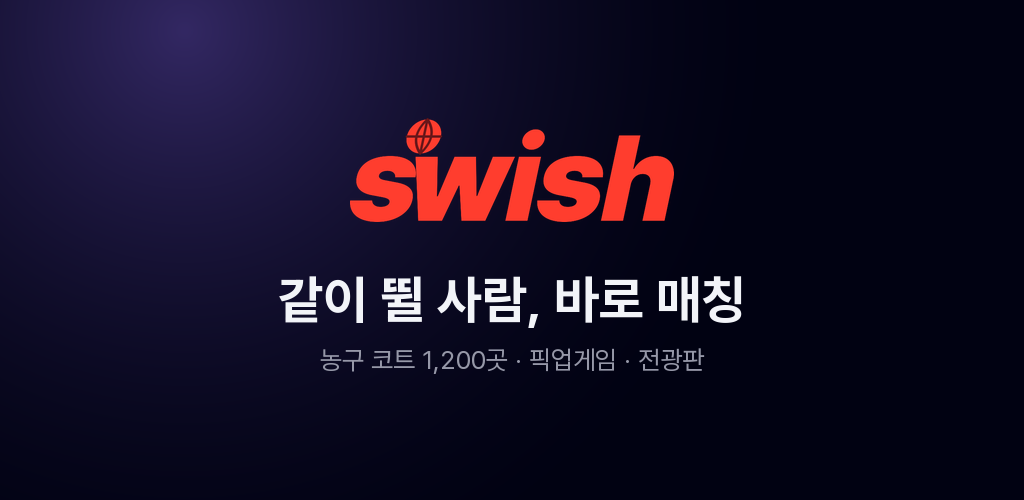
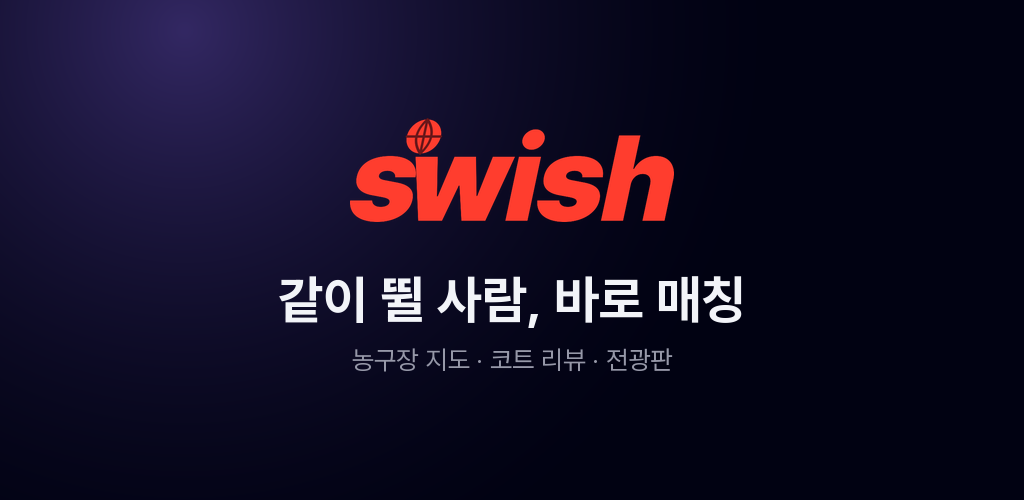
copy(web): 전국 코트 수 숫자 빼기 (랜딩·코트 목록·공유 이미지) (#19)
등록 코트 수와 앱 지도에 보이는 코트 수가 달라, 웹의 전국 숫자가 앱에서
확인되지 않는 약속이 되던 문제를 정리한다.

- 랜딩: 통계 칸 1,152 -> '전국 / 농구장 지도와 리뷰', 티커 2곳, 코트맵 본문
- 코트 목록(/courts/): 제목·설명·og의 1,144곳과 부제 숫자 제거
- assets/og.png: 부제 '농구 코트 1,200곳' -> '농구장 지도 · 코트 리뷰 · 전광판'
  (코트 페이지 1,234개가 공유 이미지로 쓰는 파일)
- 시군구별 'N곳'은 페이지에 실제로 나열된 코트 수와 89곳 모두 일치해 유지

Changed region(s): [[0.3125, 0.69, 0.6875, 0.75]]

diff --git a/courts/index.html b/courts/index.html
@@ -2,11 +2,11 @@
 <meta charset="utf-8"><meta name="viewport" content="width=device-width, initial-scale=1">
 <script async src="https://www.googletagmanager.com/gtag/js?id=G-3G08XKHERX"></script>
 <script>window.dataLayer=window.dataLayer||[];function gtag(){dataLayer.push(arguments);}gtag('js',new Date());gtag('config','G-3G08XKHERX',{allow_google_signals:false,allow_ad_personalization_signals:false});</script>
-<title>전국 야외 농구장 지도 — 1,144곳 | swish</title>
-<meta name="description" content="전국 야외 농구 코트 1,144곳의 위치·시설 정보. 시군구별로 찾아보고 swish 앱 지도에서 한눈에 확인하세요.">
+<title>전국 야외 농구장 지도 | swish</title>
+<meta name="description" content="전국 야외 농구 코트의 위치·시설 정보. 시군구별로 찾아보고 swish 앱 지도에서 한눈에 확인하세요.">
 <link rel="canonical" href="https://swish.co.kr/courts/">
 <meta property="og:type" content="website"><meta property="og:site_name" content="swish">
-<meta property="og:title" content="전국 야외 농구장 지도 — 1,144곳 | swish"><meta property="og:description" content="전국 야외 농구 코트 1,144곳의 위치·시설 정보. 시군구별로 찾아보고 swish 앱 지도에서 한눈에 확인하세요.">
+<meta property="og:title" content="전국 야외 농구장 지도 | swish"><meta property="og:description" content="전국 야외 농구 코트의 위치·시설 정보. 시군구별로 찾아보고 swish 앱 지도에서 한눈에 확인하세요.">
 <meta property="og:image" content="https://swish.co.kr/assets/og.png"><meta property="og:url" content="https://swish.co.kr/courts/">
 <link rel="icon" href="https://swish.co.kr/assets/favicon.png">
 <link rel="stylesheet" href="https://cdn.jsdelivr.net/gh/orioncactus/pretendard@v1.3.9/dist/web/variable/pretendardvariable-dynamic-subset.min.css">
@@ -14,7 +14,7 @@
 </head><body><div class="wrap">
 <a class="mark" href="/">swish</a>
 <h1>전국 야외 농구장</h1>
-<p class="sub">1,144곳. 시군구를 고르면 코트별 위치·시설 정보를 볼 수 있어요.</p>
+<p class="sub">시군구를 고르면 코트별 위치·시설 정보를 볼 수 있어요.</p>
 <a class="cta primary" href="https://apps.apple.com/kr/app/id6767571900?pt=128870676&ct=web_court_region&mt=8">앱 지도에서 한눈에 보기 (App Store)</a>
 <a class="cta primary" href="https://play.google.com/store/apps/details?id=kr.swish.app&referrer=utm_source%3Dswish_web%26utm_medium%3Dcourt_page%26utm_campaign%3Dweb_court_region">앱 지도에서 한눈에 보기 (Google Play)</a>
 <h2>강원특별자치도</h2><div class='grid'><a class="item" href="/courts/강원특별자치도-철원군/"><b>철원군</b><span>1곳</span></a><a class="item" href="/courts/강원특별자치도-홍천군/"><b>홍천군</b><span>1곳</span></a><a class="item" href="/courts/강원특별자치도-화천군/"><b>화천군</b><span>4곳</span></a></div><h2>경기도</h2><div class='grid'><a class="item" href="/courts/경기도-가평군/"><b>가평군</b><span>6곳</span></a><a class="item" href="/courts/경기도-고양시-덕양구/"><b>고양시 덕양구</b><span>46곳</span></a><a class="item" href="/courts/경기도-고양시-일산동구/"><b>고양시 일산동구</b><span>19곳</span></a><a class="item" href="/courts/경기도-고양시-일산서구/"><b>고양시 일산서구</b><span>18곳</span></a><a class="item" href="/courts/경기도-과천시/"><b>과천시</b><span>6곳</span></a><a class="item" href="/courts/경기도-광명시/"><b>광명시</b><span>14곳</span></a><a class="item" href="/courts/경기도-광주시/"><b>광주시</b><span>9곳</span></a><a class="item" href="/courts/경기도-구리시/"><b>구리시</b><span>10곳</span></a><a class="item" href="/courts/경기도-군포시/"><b>군포시</b><span>11곳</span></a><a class="item" href="/courts/경기도-김포시/"><b>김포시</b><span>32곳</span></a><a class="item" href="/courts/경기도-남양주시/"><b>남양주시</b><span>42곳</span></a><a class="item" href="/courts/경기도-동두천시/"><b>동두천시</b><span>3곳</span></a><a class="item" href="/courts/경기도-부천시-소사구/"><b>부천시 소사구</b><span>2곳</span></a><a class="item" href="/courts/경기도-부천시-오정구/"><b>부천시 오정구</b><span>7곳</span></a><a class="item" href="/courts/경기도-부천시-원미구/"><b>부천시 원미구</b><span>14곳</span></a><a class="item" href="/courts/경기도-성남시-분당구/"><b>성남시 분당구</b><span>25곳</span></a><a class="item" href="/courts/경기도-성남시-수정구/"><b>성남시 수정구</b><span>10곳</span></a><a class="item" href="/courts/경기도-성남시-중원구/"><b>성남시 중원구</b><span>8곳</span></a><a class="item" href="/courts/경기도-수원시-권선구/"><b>수원시 권선구</b><span>8곳</span></a><a class="item" href="/courts/경기도-수원시-영통구/"><b>수원시 영통구</b><span>19곳</span></a><a class="item" href="/courts/경기도-수원시-장안구/"><b>수원시 장안구</b><span>9곳</span></a><a class="item" href="/courts/경기도-수원시-팔달구/"><b>수원시 팔달구</b><span>6곳</span></a><a class="item" href="/courts/경기도-시흥시/"><b>시흥시</b><span>17곳</span></a><a class="item" href="/courts/경기도-안산시-단원구/"><b>안산시 단원구</b><span>25곳</span></a><a class="item" href="/courts/경기도-안산시-상록구/"><b>안산시 상록구</b><span>12곳</span></a><a class="item" href="/courts/경기도-안양시-동안구/"><b>안양시 동안구</b><span>9곳</span></a><a class="item" href="/courts/경기도-안양시-만안구/"><b>안양시 만안구</b><span>8곳</span></a><a class="item" href="/courts/경기도-양주시/"><b>양주시</b><span>28곳</span></a><a class="item" href="/courts/경기도-양평군/"><b>양평군</b><span>9곳</span></a><a class="item" href="/courts/경기도-여주시/"><b>여주시</b><span>3곳</span></a><a class="item" href="/courts/경기도-연천군/"><b>연천군</b><span>3곳</span></a><a class="item" href="/courts/경기도-오산시/"><b>오산시</b><span>14곳</span></a><a class="item" href="/courts/경기도-용인시-기흥구/"><b>용인시 기흥구</b><span>35곳</span></a><a class="item" href="/courts/경기도-용인시-수지구/"><b>용인시 수지구</b><span>24곳</span></a><a class="item" href="/courts/경기도-용인시-처인구/"><b>용인시 처인구</b><span>20곳</span></a><a class="item" href="/courts/경기도-의왕시/"><b>의왕시</b><span>8곳</span></a><a class="item" href="/courts/경기도-의정부시/"><b>의정부시</b><span>31곳</span></a><a class="item" href="/courts/경기도-이천시/"><b>이천시</b><span>1곳</span></a><a class="item" href="/courts/경기도-파주시/"><b>파주시</b><span>22곳</span></a><a class="item" href="/courts/경기도-평택시/"><b>평택시</b><span>1곳</span></a><a class="item" href="/courts/경기도-포천시/"><b>포천시</b><span>7곳</span></a><a class="item" href="/courts/경기도-하남시/"><b>하남시</b><span>36곳</span></a><a class="item" href="/courts/경기도-화성시-동탄구/"><b>화성시 동탄구</b><span>15곳</span></a><a class="item" href="/courts/경기도-화성시-만세구/"><b>화성시 만세구</b><span>12곳</span></a><a class="item" href="/courts/경기도-화성시-병점구/"><b>화성시 병점구</b><span>3곳</span></a><a class="item" href="/courts/경기도-화성시-효행구/"><b>화성시 효행구</b><span>5곳</span></a></div><h2>경상남도</h2><div class='grid'><a class="item" href="/courts/경상남도-양산시/"><b>양산시</b><span>3곳</span></a><a class="item" href="/courts/경상남도-창원시-성산구/"><b>창원시 성산구</b><span>1곳</span></a></div><h2>서울특별시</h2><div class='grid'><a class="item" href="/courts/서울특별시-강남구/"><b>강남구</b><span>14곳</span></a><a class="item" href="/courts/서울특별시-강동구/"><b>강동구</b><span>10곳</span></a><a class="item" href="/courts/서울특별시-강북구/"><b>강북구</b><span>1곳</span></a><a class="item" href="/courts/서울특별시-강서구/"><b>강서구</b><span>15곳</span></a><a class="item" href="/courts/서울특별시-관악구/"><b>관악구</b><span>12곳</span></a><a class="item" href="/courts/서울특별시-광진구/"><b>광진구</b><span>9곳</span></a><a class="item" href="/courts/서울특별시-구로구/"><b>구로구</b><span>4곳</span></a><a class="item" href="/courts/서울특별시-금천구/"><b>금천구</b><span>8곳</span></a><a class="item" href="/courts/서울특별시-노원구/"><b>노원구</b><span>23곳</span></a><a class="item" href="/courts/서울특별시-도봉구/"><b>도봉구</b><span>5곳</span></a><a class="item" href="/courts/서울특별시-동대문구/"><b>동대문구</b><span>22곳</span></a><a class="item" href="/courts/서울특별시-동작구/"><b>동작구</b><span>7곳</span></a><a class="item" href="/courts/서울특별시-마포구/"><b>마포구</b><span>16곳</span></a><a class="item" href="/courts/서울특별시-서대문구/"><b>서대문구</b><span>9곳</span></a><a class="item" href="/courts/서울특별시-서초구/"><b>서초구</b><span>22곳</span></a><a class="item" href="/courts/서울특별시-성동구/"><b>성동구</b><span>16곳</span></a><a class="item" href="/courts/서울특별시-성북구/"><b>성북구</b><span>16곳</span></a><a class="item" href="/courts/서울특별시-송파구/"><b>송파구</b><span>27곳</span></a><a class="item" href="/courts/서울특별시-양천구/"><b>양천구</b><span>10곳</span></a><a class="item" href="/courts/서울특별시-영등포구/"><b>영등포구</b><span>10곳</span></a><a class="item" href="/courts/서울특별시-용산구/"><b>용산구</b><span>17곳</span></a><a class="item" href="/courts/서울특별시-은평구/"><b>은평구</b><span>14곳</span></a><a class="item" href="/courts/서울특별시-종로구/"><b>종로구</b><span>9곳</span></a><a class="item" href="/courts/서울특별시-중구/"><b>중구</b><span>5곳</span></a><a class="item" href="/courts/서울특별시-중랑구/"><b>중랑구</b><span>17곳</span></a></div><h2>인천광역시</h2><div class='grid'><a class="item" href="/courts/인천광역시-검단구/"><b>검단구</b><span>18곳</span></a><a class="item" href="/courts/인천광역시-계양구/"><b>계양구</b><span>7곳</span></a><a class="item" href="/courts/인천광역시-남동구/"><b>남동구</b><span>14곳</span></a><a class="item" href="/courts/인천광역시-미추홀구/"><b>미추홀구</b><span>10곳</span></a><a class="item" href="/courts/인천광역시-부평구/"><b>부평구</b><span>13곳</span></a><a class="item" href="/courts/인천광역시-서해구/"><b>서해구</b><span>30곳</span></a><a class="item" href="/courts/인천광역시-연수구/"><b>연수구</b><span>29곳</span></a><a class="item" href="/courts/인천광역시-영종구/"><b>영종구</b><span>12곳</span></a><a class="item" href="/courts/인천광역시-옹진군/"><b>옹진군</b><span>4곳</span></a><a class="item" href="/courts/인천광역시-제물포구/"><b>제물포구</b><span>4곳</span></a></div><h2>전남광주통합특별시</h2><div class='grid'><a class="item" href="/courts/전남광주통합특별시-광산구/"><b>광산구</b><span>1곳</span></a><a class="item" href="/courts/전남광주통합특별시-나주시/"><b>나주시</b><span>1곳</span></a><a class="item" href="/courts/전남광주통합특별시-북구/"><b>북구</b><span>1곳</span></a></div>

diff --git a/index.html b/index.html
@@ -394,6 +394,7 @@
   .stat{padding:34px 12px;text-align:center;border-left:1px solid var(--line-soft)}
   .stat:first-child{border-left:none}
   .stat .n{font-family:var(--mono);font-size:clamp(26px,4.4vw,42px);font-weight:800;letter-spacing:-.02em;color:var(--scarlet);text-shadow:0 0 18px rgba(255,61,46,.3)}
+  .stat .n.n-word{font-family:inherit;letter-spacing:-.03em}   /* 숫자 대신 한글 단어를 쓰는 칸: 고정폭 글꼴엔 한글이 없어 본문 글꼴로 */
   .stat .l{font-size:13px;color:var(--dim);margin-top:6px}
 
   /* ── feature sections ── */
@@ -603,7 +604,7 @@
   </div>
 <div class="strip">
   <div class="wrap strip-in">
-    <div class="stat" data-reveal><i class="ball-anchor" style="left:50%;top:-6px"></i><div class="n" data-count="1152">1,152</div><div class="l">지도에 등록된 전국 농구 코트</div></div>
+    <div class="stat" data-reveal><i class="ball-anchor" style="left:50%;top:-6px"></i><div class="n n-word">전국</div><div class="l">농구장 지도와 리뷰</div></div>
     <div class="stat" data-reveal><div class="n" data-count="30" data-fmt="clock">0:30</div><div class="l">게임 등록에 걸리는 시간</div></div>
     <div class="stat" data-reveal><div class="n" data-count="24">24</div><div class="l">샷클락까지 NBA 룰 그대로인 전광판</div></div>
   </div>
@@ -617,14 +618,14 @@
     <span class="ti"><b>NEW</b>채팅 속 연락처·계좌번호는 자동으로 가려요</span>
     <span class="ti"><b>NEW</b>유료 게임 신청 전 환불 규정을 표로 확인</span>
     <span class="ti"><b>NEW</b>코트·동네 농구 기록 피드: 오늘 뛴 농구를 올리고 좋아요로 응원</span>
-    <span class="ti"><b>MAP</b>전국 농구 코트 1,152곳, 제보로 매일 자라는 코트맵</span>
+    <span class="ti"><b>MAP</b>전국 농구장 지도와 코트 리뷰, 없는 코트는 제보로 등록</span>
     <span class="ti dup" aria-hidden="true"><b>NEW</b>호스트를 팔로우하면 새 게임 알림<span class="v">0.1.14</span></span>
     <span class="ti dup" aria-hidden="true"><b>NEW</b>호스트 프로필에서 예정 게임·팔로워·리뷰를 한눈에</span>
     <span class="ti dup" aria-hidden="true"><b>NEW</b>유료 게임 실명 인증, 실명은 호스트에게만 보여요</span>
     <span class="ti dup" aria-hidden="true"><b>NEW</b>채팅 속 연락처·계좌번호는 자동으로 가려요</span>
     <span class="ti dup" aria-hidden="true"><b>NEW</b>유료 게임 신청 전 환불 규정을 표로 확인</span>
     <span class="ti dup" aria-hidden="true"><b>NEW</b>코트·동네 농구 기록 피드: 오늘 뛴 농구를 올리고 좋아요로 응원</span>
-    <span class="ti dup" aria-hidden="true"><b>MAP</b>전국 농구 코트 1,152곳, 제보로 매일 자라는 코트맵</span>
+    <span class="ti dup" aria-hidden="true"><b>MAP</b>전국 농구장 지도와 코트 리뷰, 없는 코트는 제보로 등록</span>
   </div></div>
 </div>
 </header>
@@ -807,7 +808,7 @@
     <div class="copy">
       <span class="kicker" data-reveal>코트맵</span>
       <h2 data-reveal>"여기 농구장 어디지?"<br>30초 안에 끝나요</h2>
-      <p class="body" data-reveal>전국 실외 농구장과 실내 코트 <b>1,152곳</b>. 처음 가는 동네에서도 지도 한 번이면 뛸 곳부터 찾아요.</p>
+      <p class="body" data-reveal>가까운 농구장을 지도에서 찾고 <b>코트 리뷰</b>를 먼저 봐요. 처음 가는 동네에서도 뛸 곳이 바로 보여요.</p>
       <ul data-reveal>
         <li>실내·실외, 무료 여부, 야간 조명 필터</li>
         <li>바닥 상태, 골대 개수, 주차 정보와 다녀온 사람들의 리뷰<small>카카오맵 길찾기로 바로 연결</small></li>
